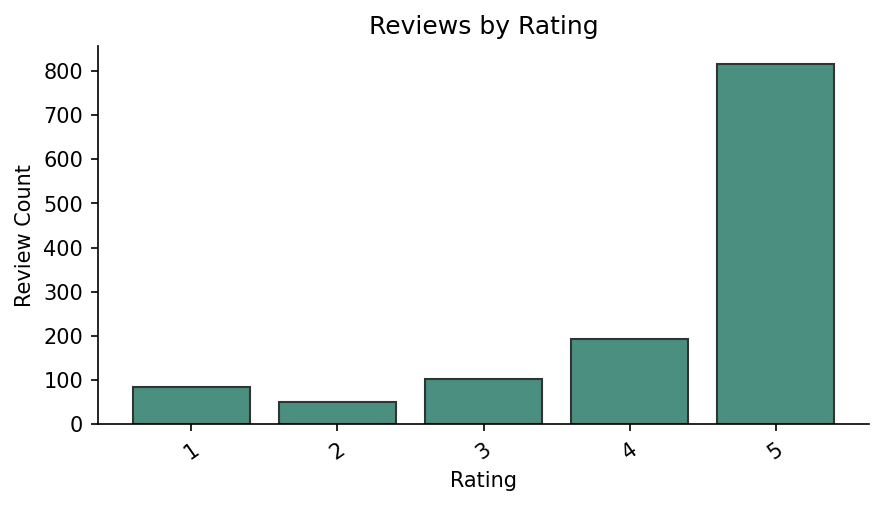
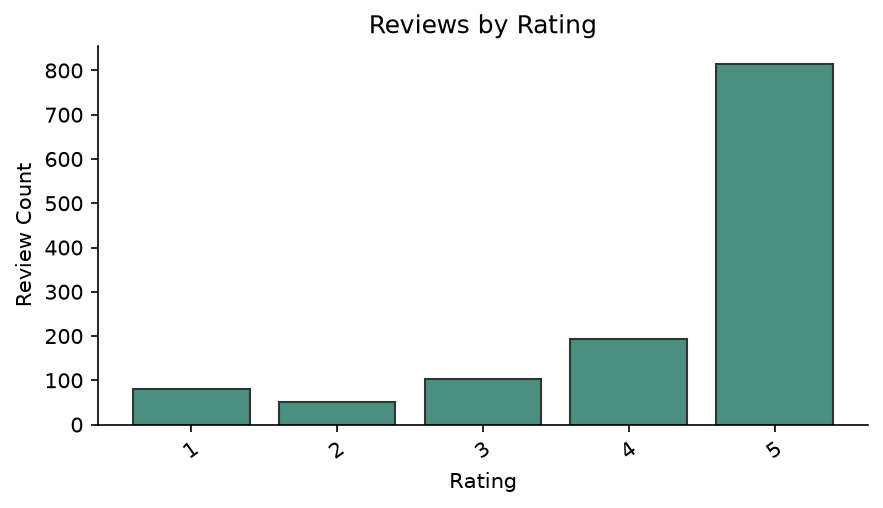
fix

diff --git a/glowbase/templates/category_products.html b/glowbase/templates/category_products.html
@@ -1,0 +1,51 @@
+{% extends "base.html" %}
+
+{% block content %}
+
+<section class="page-header products-page-header">
+    <h1>{{ category }}</h1>
+    <p>Products assigned to this category.</p>
+</section>
+
+<section class="container">
+    <a href="/products" class="secondary-link">&larr; Back to all products</a>
+
+    <p class="result-count">Showing up to 50 products</p>
+
+    <div class="product-grid product-list-grid">
+        {% for product in products %}
+        <div class="product-card product-catalog-card">
+            <div class="product-visual">
+                <span>{{ product.brand_name[:1]|upper }}</span>
+                <small>{{ product.brand_name }}</small>
+            </div>
+
+            <div class="product-catalog-body">
+                <h3>{{ product.product_name }}</h3>
+                <p class="product-line"><strong>Brand:</strong> {{ product.brand_name }}</p>
+
+                <div class="product-divider"></div>
+
+                <div class="product-price-row">
+                    <p class="price">${{ product.price_usd }}</p>
+                    <p class="product-rating">Rating {{ product.rating }} / 5</p>
+                </div>
+
+                <div class="product-actions-row">
+                    {% if product.out_of_stock == 1 %}
+                    <span class="badge danger">Out of Stock</span>
+                    {% else %}
+                    <span class="badge">In Stock</span>
+                    {% endif %}
+
+                    <a href="/product/{{ product.product_id }}" class="btn product-view-btn">View Details</a>
+                </div>
+            </div>
+        </div>
+        {% else %}
+        <p>No products found in this category.</p>
+        {% endfor %}
+    </div>
+</section>
+
+{% endblock %}

diff --git a/glowbase/templates/analytics.html b/glowbase/templates/analytics.html
@@ -285,7 +285,7 @@
 
             <div class="analytics-chemical-list">
                 {% for chem in top_chemicals[:12] %}
-                <a href="/products?chemical={{ chem._id|urlencode }}" class="analytics-chemical-row">
+                <a href="/chemicals/{{ chem._id|urlencode }}" class="analytics-chemical-row">
                     <span>{{ chem._id }}</span>
                     <strong>{{ chem.product_count }}</strong>
                 </a>

diff --git a/glowbase/services/products.py b/glowbase/services/products.py
@@ -1,5 +1,5 @@
 from db import get_mariadb_connection
-from utils import make_pasteable_sql
+from utils import make_pasteable_sql, parse_number_range
 
 
 def get_brand_id(cursor, brand_name):
@@ -267,17 +267,17 @@ def build_product_filter_query(filters, order_by="p.product_name", limit=100, ad
         """)
         params.extend([filters["category"], filters["category"], filters["category"]])
 
-    if filters.get("rating"):
-        min_rating, max_rating = filters["rating"].split("-")
+    rating_range = parse_number_range(filters.get("rating"))
+    if rating_range:
+        min_rating, max_rating = rating_range
         where_clauses.append("p.rating >= %s AND p.rating <= %s")
-        params.append(float(min_rating))
-        params.append(float(max_rating))
+        params.extend([min_rating, max_rating])
 
-    if filters.get("price"):
-        min_price, max_price = filters["price"].split("-")
+    price_range = parse_number_range(filters.get("price"))
+    if price_range:
+        min_price, max_price = price_range
         where_clauses.append("p.price_usd >= %s AND p.price_usd <= %s")
-        params.append(float(min_price))
-        params.append(float(max_price))
+        params.extend([min_price, max_price])
 
     if where_clauses:
         query += " WHERE " + " AND ".join(where_clauses)

diff --git a/glowbase/utils.py b/glowbase/utils.py
@@ -17,6 +17,24 @@ def fix_mongo_id(review):
     return review
 
 
+def parse_number_range(value):
+    """Return a validated numeric range, or None for an invalid filter value."""
+    if not value:
+        return None
+
+    try:
+        minimum, maximum = value.split("-", 1)
+        minimum = float(minimum)
+        maximum = float(maximum)
+    except (TypeError, ValueError):
+        return None
+
+    if minimum > maximum:
+        return None
+
+    return minimum, maximum
+
+
 def make_pasteable_sql(query, params):
     pasteable_query = dedent(query).strip()
 

diff --git a/glowbase/routes/review_routes.py b/glowbase/routes/review_routes.py
@@ -8,7 +8,7 @@ from services.products import (
     get_product_select_options,
     increment_product_review_count,
 )
-from utils import fix_mongo_id
+from utils import fix_mongo_id, parse_number_range
 
 review_bp = Blueprint("reviews", __name__)
 
@@ -30,14 +30,15 @@ def reviews():
             {"review_text": {"$regex": search, "$options": "i"}}
         ]
 
-    if rating:
-        min_rating, max_rating = rating.split("-")
+    rating_range = parse_number_range(rating)
+    if rating_range:
+        min_rating, max_rating = rating_range
         mongo_filter["rating"] = {
-            "$gte": float(min_rating),
-            "$lte": float(max_rating)
+            "$gte": min_rating,
+            "$lte": max_rating
         }
 
-    if recommended != "":
+    if recommended in {"0", "1"}:
         mongo_filter["is_recommended"] = int(recommended)
 
     mongo_query_used = {

diff --git a/glowbase/routes/admin_review_routes.py b/glowbase/routes/admin_review_routes.py
@@ -40,7 +40,7 @@ def admin_reviews():
             {"review_text": {"$regex": search, "$options": "i"}}
         ]
 
-    if rating:
+    if rating in {"1", "2", "3", "4", "5"}:
         mongo_filter["rating"] = int(rating)
 
     if recommended == "1":
@@ -95,6 +95,9 @@ def admin_edit_review(review_id):
     if not is_admin_logged_in():
         return redirect("/admin/login")
 
+    if not ObjectId.is_valid(review_id):
+        return "Review not found.", 404
+
     reviews_collection = get_mongo_collection()
 
     if request.method == "POST":
@@ -120,7 +123,7 @@ def admin_edit_review(review_id):
     review = reviews_collection.find_one({"_id": ObjectId(review_id)})
 
     if not review:
-        return "Review not found."
+        return "Review not found.", 404
 
     review = fix_mongo_id(review)
 
@@ -134,6 +137,9 @@ def admin_edit_review(review_id):
 def admin_delete_review(review_id):
     if not is_admin_logged_in():
         return redirect("/admin/login")
+
+    if not ObjectId.is_valid(review_id):
+        return "Review not found.", 404
 
     reviews_collection = get_mongo_collection()
     reviews_collection.delete_one({"_id": ObjectId(review_id)})

diff --git a/glowbase/routes/admin_product_routes.py b/glowbase/routes/admin_product_routes.py
@@ -218,7 +218,6 @@ def admin_edit_product(product_id):
                 )
             )
 
-            conn.commit()
             update_product_text_table(cursor, "product_ingredients", "ingredients", product_id)
             update_product_text_table(cursor, "product_highlights", "highlights", product_id)
             conn.commit()
@@ -326,7 +325,7 @@ def admin_delete_product(product_id):
 
 def update_product_text_table(cursor, table_name, column_name, product_id):
     text_value = request.form.get(column_name)
-    if not text_value:
+    if text_value is None:
         return
 
     cursor.execute(

diff --git a/glowbase/routes/product_routes.py b/glowbase/routes/product_routes.py
@@ -54,7 +54,7 @@ def product_detail(product_id):
     product = get_product_by_id(product_id)
 
     if not product:
-        return "Product not found."
+        return "Product not found.", 404
 
     product["chemicals"] = get_product_chemicals(product_id)
     reviews = get_reviews_by_product_id(product_id)